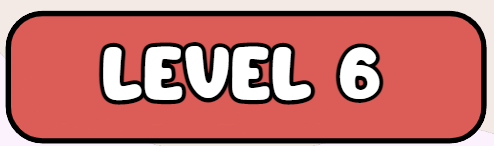
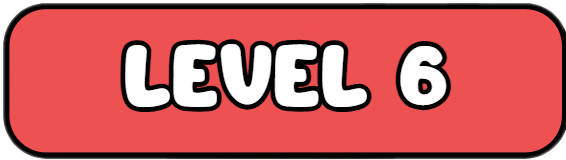
update code

diff --git a/src/screens/level_select_screen.py b/src/screens/level_select_screen.py
@@ -2,9 +2,7 @@
 import pygame
 import os
 from src.screens.base_screen import BaseScreen
-from src.config import * # Giả định các biến cấu hình (SCREEN_WIDTH, FONT_SIZE_*, COLORS, ASSETS_DIR...) đã được định nghĩa ở đây
-
-# Cấu trúc LEVELS mới với image_key
+from src.config import *
 LEVELS = [
     {"name": "LEVEL 1", "key": "LEVEL_1", "image_key": "lv1"},
     {"name": "LEVEL 2", "key": "LEVEL_2", "image_key": "lv2"},
@@ -15,16 +13,15 @@ LEVELS = [
 ]
 
 try:
-    # Đảm bảo ASSETS_FONT_DIR đã được định nghĩa trong src.config
     VIETNAMESE_FONT_PATH = os.path.join(ASSETS_FONT_DIR, 'UTM-Avo.ttf')
 except NameError:
     VIETNAMESE_FONT_PATH = None
+
 
 # THÔNG SỐ PROGRESS BAR CỐ ĐỊNH
 PROGRESS_BAR_WIDTH = 400
 PROGRESS_BAR_HEIGHT = 40
 PROGRESS_BAR_PADDING = 5
-# Giả định ACTION_BUTTON_SIZE = (40, 40) được định nghĩa trong src.config
 ACTION_BUTTON_SIZE = (40, 40) 
 
 class LevelSelectScreen(BaseScreen):
@@ -57,7 +54,7 @@ class LevelSelectScreen(BaseScreen):
         self.replay_button_size = (100, 50) # Kích thước cho nút REPLAY/PLAY
         # Khởi tạo rect cho tiêu đề "LEVEL"
         self.level_title_text_surface = self.font_title.render("LEVEL", True, (255, 204, 0))
-        self.level_title_rect = self.assets['level_title_bg'].get_rect(center=(SCREEN_WIDTH // 2, 250))
+        self.level_title_rect = self.assets['level_title_bg'].get_rect(center=(SCREEN_WIDTH // 2, 150))
         
         # Rect cho thanh progress bar 
         self.progress_bar_bg_rect = pygame.Rect(0, 0, PROGRESS_BAR_WIDTH, PROGRESS_BAR_HEIGHT)
@@ -80,7 +77,7 @@ class LevelSelectScreen(BaseScreen):
             # Giả định COLOR_BG được định nghĩa trong src.config
             assets['nen_lv'] = pygame.transform.scale(pygame.image.load(os.path.join(ASSETS_IMG_DIR, 'nen_lv.png')).convert(), (SCREEN_WIDTH, SCREEN_HEIGHT))
             
-            assets['khoalv'] = pygame.transform.scale(pygame.image.load(os.path.join(ASSETS_IMG_DIR, 'khoalv.png')).convert_alpha(), (130, 130))
+            assets['khoalv'] = pygame.transform.scale(pygame.image.load(os.path.join(ASSETS_IMG_DIR, 'khoalv.png')).convert_alpha(), (200, 100))
             
             # TẢI NÚT CÀI ĐẶT
             assets['nut_caidat'] = pygame.image.load(os.path.join(ASSETS_IMG_DIR, 'nutcaidat.png')).convert_alpha()
@@ -120,7 +117,6 @@ class LevelSelectScreen(BaseScreen):
            #  --- TẢI ẢNH CHO NÚT HOME/REPLAY (Pop-up Settings) ---
             try:
                 # SỬ DỤNG nut_back.png cho nút HOME (BACK)
-                # Giả định ACTION_BUTTON_SIZE được định nghĩa 
                 assets['nut_back_icon'] = pygame.image.load(os.path.join(ASSETS_IMG_DIR, 'nut_back.png')).convert_alpha()
                 assets['nut_back_icon'] = pygame.transform.scale(assets['nut_back_icon'], ACTION_BUTTON_SIZE)
             except pygame.error:
@@ -172,7 +168,7 @@ class LevelSelectScreen(BaseScreen):
                     self.game_manager.switch_screen("MENU")
                     self.show_settings = False
                 elif self.replay_rect.collidepoint(mouse_pos):
-                    # Giả định REPLAY chuyển đến menu hoặc màn hình chơi lại level hiện tại (nếu có)
+
                     # Hiện tại đang chuyển về MENU
                     self.game_manager.switch_screen("MENU") 
                     self.show_settings = False
@@ -188,15 +184,18 @@ class LevelSelectScreen(BaseScreen):
                 i = rect_data['index']
                 rect = rect_data['rect']
                 if rect.collidepoint(mouse_pos):
-                    # Lấy dữ liệu sao để kiểm tra khóa
                     stars_data = self.game_manager.game_data.get('stars', [0] * len(LEVELS)) 
                     
                     # KIỂM TRA LOGIC KHÓA:
-                    # Level 1 luôn mở (i=0). Các level khác mở nếu level trước đó (i-1) có ít nhất 1 sao.
                     is_locked = (i > 0 and stars_data[i-1] == 0)      
                     if not is_locked:
                         selected_level = LEVELS[i]
+                        
+                        # GỬI TÍN HIỆU ĐÃ CHỌN LEVEL ĐẾN GAME MANAGER
                         self.game_manager.current_level_key = selected_level['key']
+                        self.game_manager.question_index = 0 
+                        
+                        # Chuyển sang màn hình chơi game
                         self.game_manager.switch_screen("GAMEPLAY")
                         return
                     else:
@@ -213,7 +212,6 @@ class LevelSelectScreen(BaseScreen):
             else:
                 # Nếu sound_off, đặt 1 kênh dự trữ (có thể mute toàn bộ sound effects)
                 pygame.mixer.set_reserved(1)
-            # Logic điều khiển nhạc nền (bgm_on) nên được thực hiện trong game_manager
             
     def _draw_settings_popup(self, surface):
         """Vẽ pop-up cài đặt lên trên màn hình.""" 
@@ -238,12 +236,12 @@ class LevelSelectScreen(BaseScreen):
 
         if 'nut_back_icon' in self.assets:
             icon_asset = self.assets['nut_back_icon']
-            icon_rect = icon_asset.get_rect(midright=(self.home_rect.right +20, self.home_rect.centery))
+            icon_rect = icon_asset.get_rect(midright=(self.home_rect.right -0, self.home_rect.centery))
             surface.blit(icon_asset, icon_rect.topleft)
 
         if 'nut_play_icon' in self.assets:
             icon_asset = self.assets['nut_play_icon']
-            icon_rect = icon_asset.get_rect(midright=(self.replay_rect.right + 20, self.replay_rect.centery))
+            icon_rect = icon_asset.get_rect(midright=(self.replay_rect.right -0, self.replay_rect.centery))
             surface.blit(icon_asset, icon_rect.topleft)
 
         # Nút đóng pop-up (X)
@@ -276,7 +274,7 @@ class LevelSelectScreen(BaseScreen):
 
         # VẼ CÁC NÚT LEVEL
         level_button_width = 200
-        level_button_height = 80
+        level_button_height = 55
         padding_x = 80
         padding_y = 80
         star_spacing = 4
@@ -313,7 +311,7 @@ class LevelSelectScreen(BaseScreen):
                 total_stars_width = (current_stars_level * star_size) + ((current_stars_level - 1) * star_spacing)
                 # Vị trí X bắt đầu để căn giữa toàn bộ khối sao
                 start_star_x = button_rect.centerx - (total_stars_width // 2)
-                star_y = button_rect.bottom - star_size - 5 # Đặt sao cách đáy nút 5px
+                star_y = button_rect.bottom - star_size + 20 # Đặt sao cách đáy nút 5px
                 for star_index in range(current_stars_level):
                     star_x = start_star_x + star_index * (star_size + star_spacing)
                     surface.blit(star_asset, (star_x, star_y))
@@ -328,3 +326,5 @@ class LevelSelectScreen(BaseScreen):
         #  VẼ POP-UP CÀI ĐẶT nếu show_settings = True
         if self.show_settings:
             self._draw_settings_popup(surface)
+        
+        

diff --git a/src/config.py b/src/config.py
@@ -3,7 +3,7 @@ import os
 
 # --- THÔNG SỐ MÀN HÌNH ---
 SCREEN_WIDTH = 1200
-SCREEN_HEIGHT = 720
+SCREEN_HEIGHT =600
 FPS = 120
 TITLE = "Toán thông minh"
 
@@ -11,7 +11,7 @@ TITLE = "Toán thông minh"
 BASE_DIR = os.path.dirname(os.path.abspath(__file__))
 ASSETS_DIR = os.path.join(os.path.dirname(BASE_DIR), 'assets')
 ASSETS_IMG_DIR = os.path.join(ASSETS_DIR, 'images') 
-ASSETS_SND_DIR = os.path.join(ASSETS_DIR, 'sounds') 
+ASSETS_SOUND_DIR = os.path.join(ASSETS_DIR, 'sounds') 
 ASSETS_FONT_DIR = os.path.join(ASSETS_DIR, 'fonts') 
 MAIN_FONT = os.path.join(ASSETS_FONT_DIR, 'main_font.ttf')
 
@@ -45,3 +45,13 @@ FONT_SIZE_TITLE = 80
 FONT_SIZE_LARGE = 48
 FONT_SIZE_MEDIUM = 36
 FONT_SIZE_SMALL = 24
+
+BASE_DIR = os.path.dirname(os.path.abspath(__file__)) 
+ASSETS_DIR = os.path.join(BASE_DIR, '..', 'assets')
+
+# --- THÊM HAI ĐƯỜNG DẪN BỊ LỖI NÀY ---
+ASSETS_MUSIC_DIR = os.path.join(ASSETS_DIR, 'music')  
+ASSETS_SOUND_DIR = os.path.join(ASSETS_DIR, 'sounds') 
+
+# ASSETS_IMG_DIR (Chắc đã tồn tại)
+ASSETS_IMG_DIR = os.path.join(ASSETS_DIR, 'images')

diff --git a/src/screens/menu_screen.py b/src/screens/menu_screen.py
@@ -30,7 +30,7 @@ class MenuScreen(BaseScreen):
         # self.setting_button_rect đã bị loại bỏ 
         self.assets = self._load_assets()
         # CĂN CHỈNH VỊ TRÍ NÚT PLAY CUỐI CÙNG
-        self.start_button_rect.center = (SCREEN_WIDTH // 2, SCREEN_HEIGHT // 2 + 215)   
+        self.start_button_rect.center = (SCREEN_WIDTH // 2, SCREEN_HEIGHT // 2 + 180)   
         # TÍCH HỢP TƯƠNG TÁC SETTINGS TRỰC TIẾP TẠI LEVEL SCREEN
         self.show_settings = False
         self.settings_rect = self.assets['nen_caidat'].get_rect(center=(SCREEN_WIDTH // 2, SCREEN_HEIGHT // 2))
